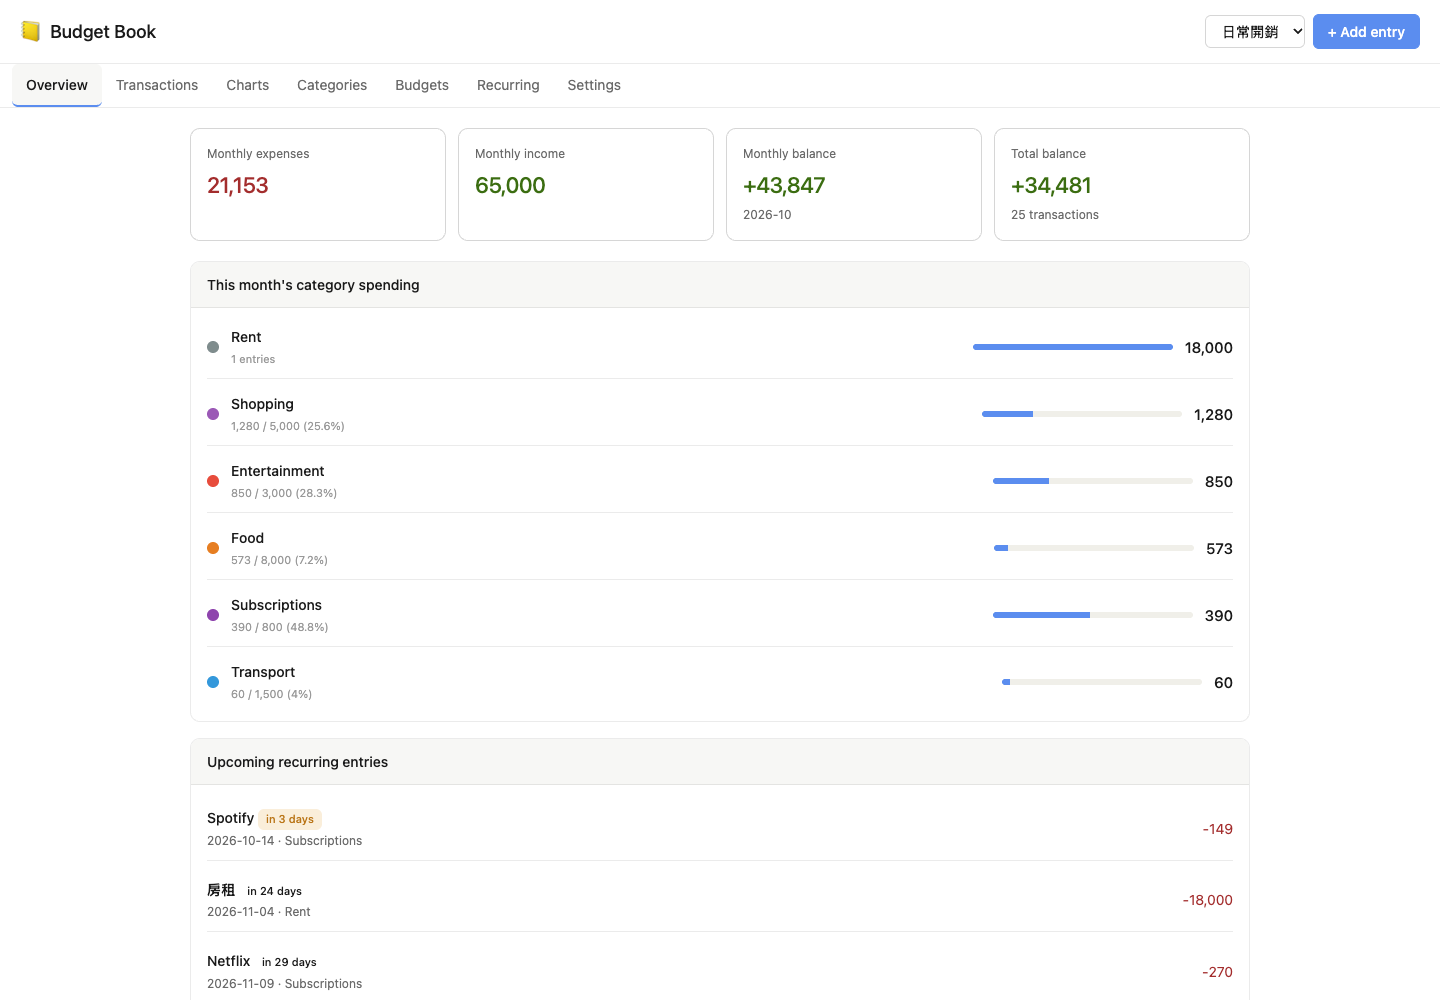
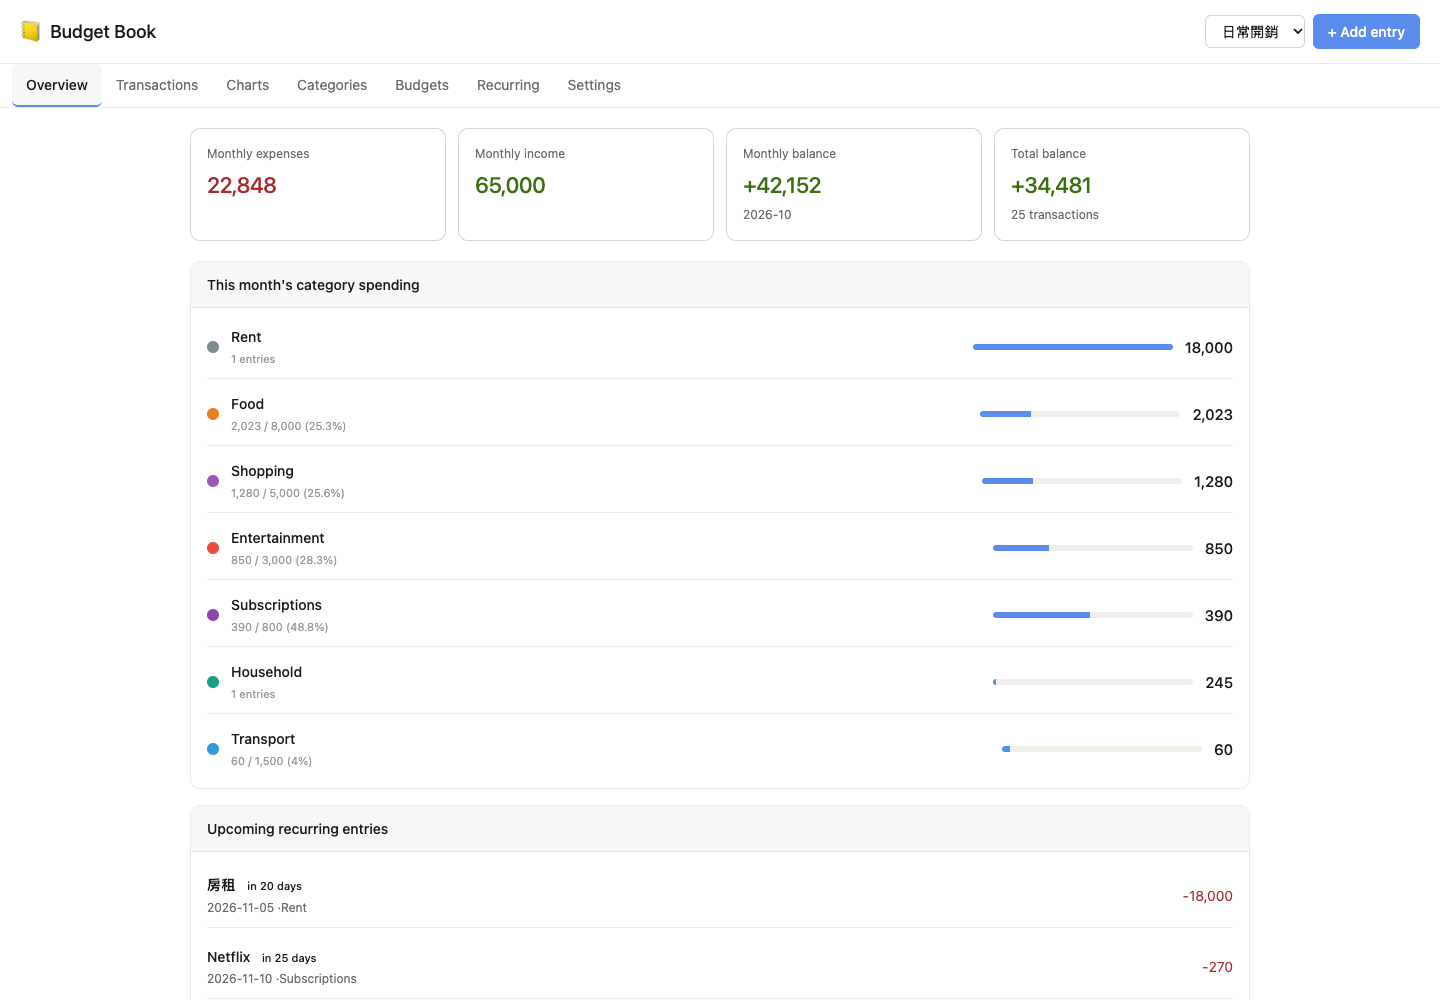
Release v1.2.4

diff --git a/budget_book/rootfs/app/www/index.html b/budget_book/rootfs/app/www/index.html
@@ -220,7 +220,7 @@
           </div>
           <div class="card">
             <div class="card-header" data-i18n="settings.about">關於</div>
-            <p class="hint" data-i18n="settings.about_text">記帳本 Add-on v1.2.3 · 移植自記帳本 v1.2.3，資料儲存在 /data/budget_book.json。</p>
+            <p class="hint" data-i18n="settings.about_text">記帳本 Add-on v1.2.4 · 移植自記帳本 v1.2.4，資料儲存在 /data/budget_book.json。</p>
           </div>
         </section>
       </main>

diff --git a/custom_components/budget_book/www/index.html b/custom_components/budget_book/www/index.html
@@ -220,7 +220,7 @@
           </div>
           <div class="card">
             <div class="card-header" data-i18n="settings.about">關於</div>
-            <p class="hint" data-i18n="settings.about_text">記帳本 v1.2.3 — 整合於 Home Assistant，資料存在 HA storage 並隨著系統備份。</p>
+            <p class="hint" data-i18n="settings.about_text">記帳本 v1.2.4 — 整合於 Home Assistant，資料存在 HA storage 並隨著系統備份。</p>
           </div>
         </section>
       </main>

diff --git a/shared/core/www/index.html b/shared/core/www/index.html
@@ -220,7 +220,7 @@
           </div>
           <div class="card">
             <div class="card-header" data-i18n="settings.about">關於</div>
-            <p class="hint" data-i18n="settings.about_text">記帳本 v1.2.3 — 整合於 Home Assistant，資料存在 HA storage 並隨著系統備份。</p>
+            <p class="hint" data-i18n="settings.about_text">記帳本 v1.2.4 — 整合於 Home Assistant，資料存在 HA storage 並隨著系統備份。</p>
           </div>
         </section>
       </main>

diff --git a/scripts/sync_shared_core.py b/scripts/sync_shared_core.py
@@ -145,21 +145,21 @@ def addon_index(text: str) -> str:
         '<script src="vendor/chart.umd.js"></script>',
     )
     return text.replace(
-        "記帳本 v1.2.3 — 整合於 Home Assistant，資料存在 HA storage 並隨著系統備份。",
-        "記帳本 Add-on v1.2.3 · 移植自記帳本 v1.2.3，資料儲存在 /data/budget_book.json。",
+        "記帳本 v1.2.4 — 整合於 Home Assistant，資料存在 HA storage 並隨著系統備份。",
+        "記帳本 Add-on v1.2.4 · 移植自記帳本 v1.2.4，資料儲存在 /data/budget_book.json。",
     )
 
 
 def addon_locale(text: str) -> str:
     return text.replace(
-        "記帳本 v1.2.3 — 整合於 Home Assistant，資料存在 HA storage 並隨著系統備份。",
-        "記帳本 Add-on v1.2.3 · 移植自記帳本 v1.2.3，資料儲存在 /data/budget_book.json。",
+        "記帳本 v1.2.4 — 整合於 Home Assistant，資料存在 HA storage 並隨著系統備份。",
+        "記帳本 Add-on v1.2.4 · 移植自記帳本 v1.2.4，資料儲存在 /data/budget_book.json。",
     ).replace(
-        "Budget Book v1.2.3 — integrated with Home Assistant. Data is stored in HA storage and included in system backups.",
-        "Budget Book Add-on v1.2.3 · Ported from Budget Book v1.2.3, stored in /data/budget_book.json.",
+        "Budget Book v1.2.4 — integrated with Home Assistant. Data is stored in HA storage and included in system backups.",
+        "Budget Book Add-on v1.2.4 · Ported from Budget Book v1.2.4, stored in /data/budget_book.json.",
     ).replace(
-        "记账本 v1.2.3 — 集成于 Home Assistant，数据储存在 HA storage，并随系统备份保存。",
-        "记账本 Add-on v1.2.3 · 移植自记账本 v1.2.3，数据存放在 /data/budget_book.json。",
+        "记账本 v1.2.4 — 集成于 Home Assistant，数据储存在 HA storage，并随系统备份保存。",
+        "记账本 Add-on v1.2.4 · 移植自记账本 v1.2.4，数据存放在 /data/budget_book.json。",
     )
 
 

diff --git a/budget_book/CHANGELOG.md b/budget_book/CHANGELOG.md
@@ -1,5 +1,12 @@
 # Changelog
 
+## 1.2.4
+
+- Recurring rules set to day 29, 30 or 31 now run on the last day of shorter months (Feb 28/29, Apr 30, ...) instead of always on the 28th.
+- Home panel "upcoming" list shows the "today" badge for rules due today instead of moving them to next month.
+- Upcoming due dates are shown in local time (previously one day early in UTC+ timezones).
+- Add analytics tests covering the shared core, HACS integration and add-on copies.
+
 ## 1.2.3
 
 - Add root-level HACS brand assets (`brand/icon.png`, `brand/icon@2x.png`, `brand/icon.svg`) so the HACS repository list can show the Budget Book icon.

diff --git a/budget_book/README.md b/budget_book/README.md
@@ -1,6 +1,6 @@
 # Budget Book
 
-Home Assistant Supervisor Add-on port of the [Budget Book](https://github.com/Im-Tim-mI/Home-Assistant_Budget-Book) custom integration (v1.2.3), with the same panel UI and features. This add-on lives in the same repository as the HACS integration.
+Home Assistant Supervisor Add-on port of the [Budget Book](https://github.com/Im-Tim-mI/Home-Assistant_Budget-Book) custom integration (v1.2.4), with the same panel UI and features. This add-on lives in the same repository as the HACS integration.
 
 ## Features
 
@@ -17,4 +17,4 @@ See [DOCS.md](DOCS.md).
 
 ## Current Version
 
-`1.2.3`
+`1.2.4`

diff --git a/README.md b/README.md
@@ -11,7 +11,7 @@ Budget Book is a Home Assistant budgeting app that now supports both **Superviso
 - **HACS integration:** keeps the original Home Assistant entity, sensor, service, sidebar panel, and HA storage behavior.
 - **Shared core:** frontend UI, language files, analytics, data shape, import/export behavior, sample data, and migration logic are kept in `shared/core/` and synced into both adapters.
 
-Current version: Supervisor Add-on and HACS integration `v1.2.3`.
+Current version: Supervisor Add-on and HACS integration `v1.2.4`.
 
 ## Screenshots
 

diff --git a/README.zh-CN.md b/README.zh-CN.md
@@ -11,7 +11,7 @@
 - **HACS integration：** 保留原本 Home Assistant entity、sensor、service、侧边栏面板与 HA storage 行为。
 - **共用核心：** 前端 UI、语言文件、分析逻辑、数据格式、导入导出、示例数据与 migration 放在 `shared/core/`，再同步到两个 adapter。
 
-当前版本：Supervisor Add-on 与 HACS integration 皆为 `v1.2.3`。
+当前版本：Supervisor Add-on 与 HACS integration 皆为 `v1.2.4`。
 
 ## 截图
 

diff --git a/README.zh-TW.md b/README.zh-TW.md
@@ -11,7 +11,7 @@
 - **HACS integration：** 保留原本 Home Assistant entity、sensor、service、側邊欄面板與 HA storage 行為。
 - **共用核心：** 前端 UI、語言檔、分析邏輯、資料格式、匯入匯出、範例資料與 migration 放在 `shared/core/`，再同步到兩個 adapter。
 
-目前版本：Supervisor Add-on 與 HACS integration 皆為 `v1.2.3`。
+目前版本：Supervisor Add-on 與 HACS integration 皆為 `v1.2.4`。
 
 ## 截圖
 

diff --git a/budget_book/DOCS.md b/budget_book/DOCS.md
@@ -2,7 +2,7 @@
 
 ## Opening the App
 
-After installing and starting the add-on, open Budget Book from the Home Assistant sidebar or from the add-on page. The UI is the same panel as the Budget Book custom integration v1.2.3.
+After installing and starting the add-on, open Budget Book from the Home Assistant sidebar or from the add-on page. The UI is the same panel as the Budget Book custom integration v1.2.4.
 
 ## Data Storage
 
